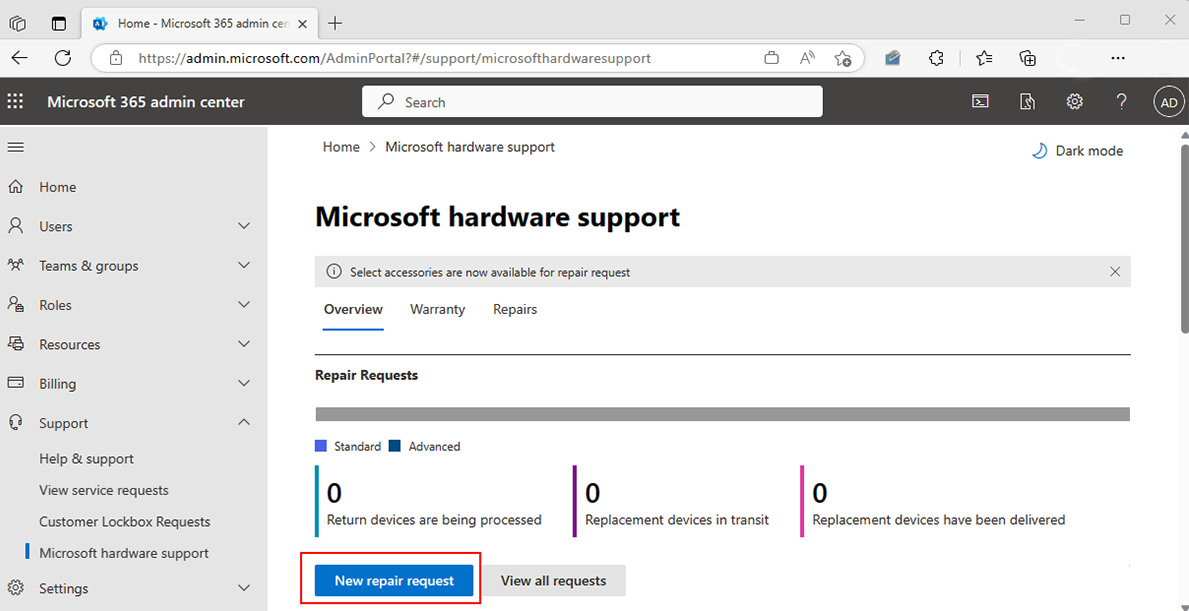
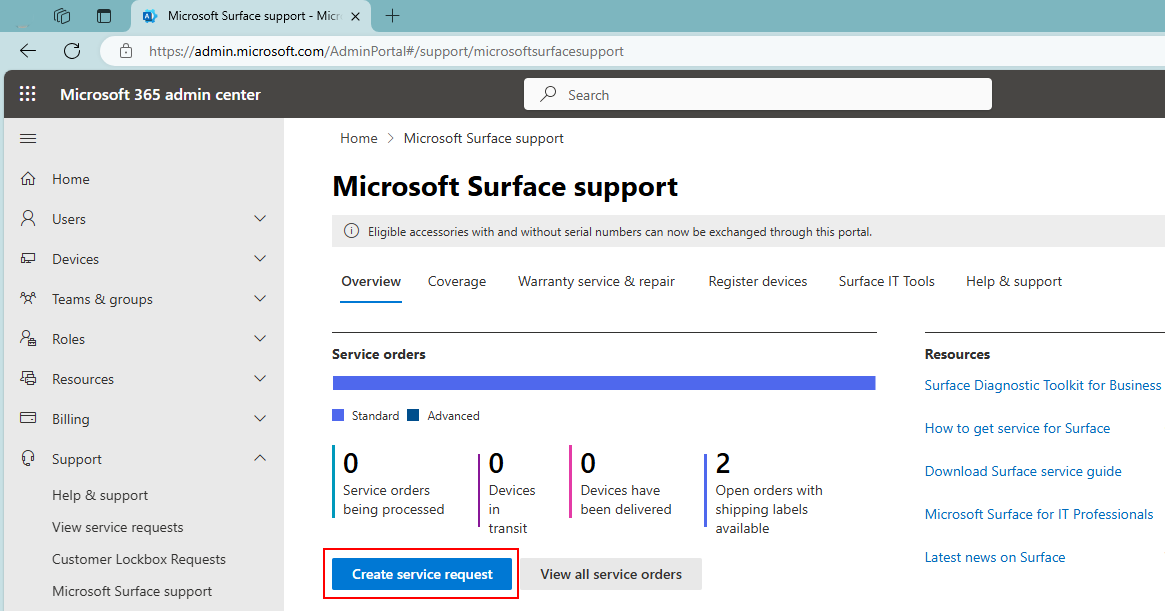
updates

diff --git a/surface/surface-service-options.md b/surface/surface-service-options.md
@@ -29,22 +29,22 @@ If you need to service a device covered by Microsoft's Limited Hardware Warranty
 > [!NOTE]
 > Self-serve replacement components are currently **only available for purchase separately**, independent of the warranty status of your device. Replacement components may be refurbished
 
+### Surface Support Portal
+
+1. Sign in to the [Microsoft Surface support - Microsoft 365 admin center](https://admin.microsoft.com/AdminPortal#/support/microsoftsurfacesupport).
+2. Select **Create service request**. For eligible devices and regional availability, see [Microsoft in-region repair](microsoft-in-region-same-unit-repair.md).
+
+    :::image type="content" source="images/surface-service-repair/m365-admincenter-repair-request.png" alt-text="Screenshot of Microsoft 365 admin center showing New repair request feature.":::
+
+> [!TIP]
+> If you need to repair a personal (non-commercial) device, sign into your account at [account.microsoft.com/devices](https://account.microsoft.com/devices), choose the device that needs service, and then select **Start order.**
+
 ### Surface Management Portal
 
 1. Sign in to the [Microsoft Intune admin center](https://go.microsoft.com/fwlink/?linkid=2109431) and go to **All services** > **Surface Management Portal**.
 2. Select **Repair** > **New repair request**. For eligible devices and regional availability, see [Microsoft in-region repair](microsoft-in-region-same-unit-repair.md).
 
     :::image type="content" source="images/surface-service-repair/smp-repair-request.png" alt-text="Screenshot of Surface Management Portal showing New repair request feature.":::
-
-### Surface Support Portal
-
-1. Sign in to the [Microsoft 365 admin center](https://admin.microsoft.com/AdminPortal) and go to **Show all** > **Support** > **Microsoft Surface support**.
-2. Select **New repair request**. For eligible devices and regional availability, see [Microsoft in-region repair](microsoft-in-region-same-unit-repair.md).
-
-    :::image type="content" source="images/surface-service-repair/m365-admincenter-repair-request.png" alt-text="Screenshot of Microsoft 365 admin center showing New repair request feature.":::
-
-> [!TIP]
-> If you need to repair a personal (non-commercial) device, sign into your account at [account.microsoft.com/devices](https://account.microsoft.com/devices), choose the device that needs service, and then select **Start order.**
 
 ## Recommended service options for out-of-warranty devices
 
